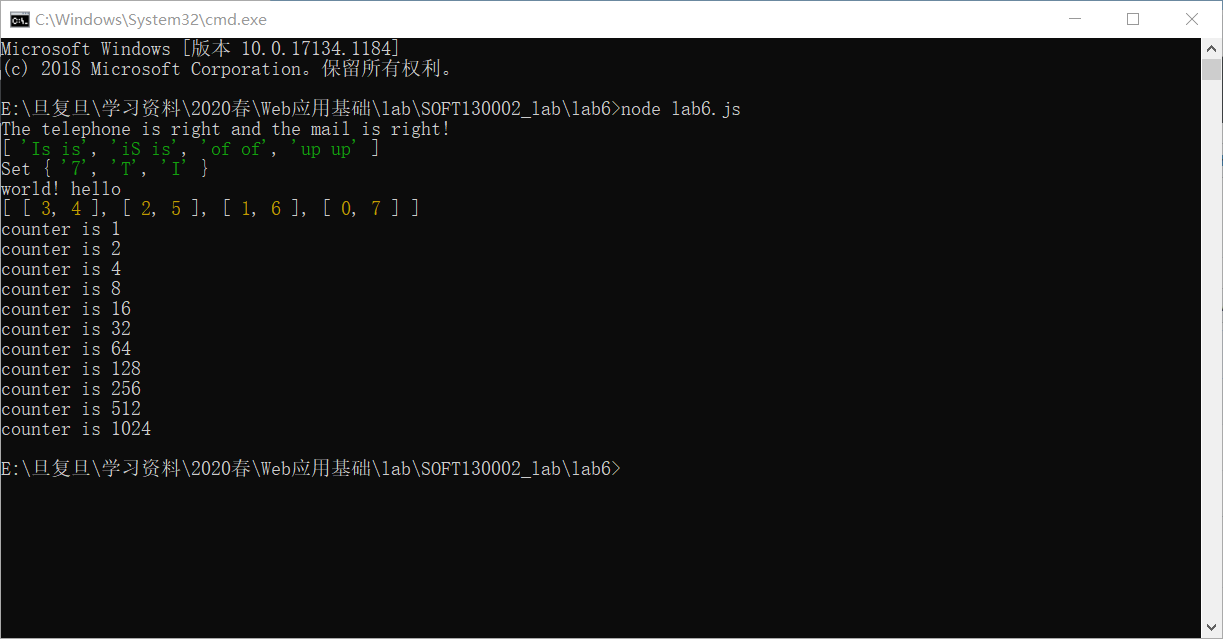
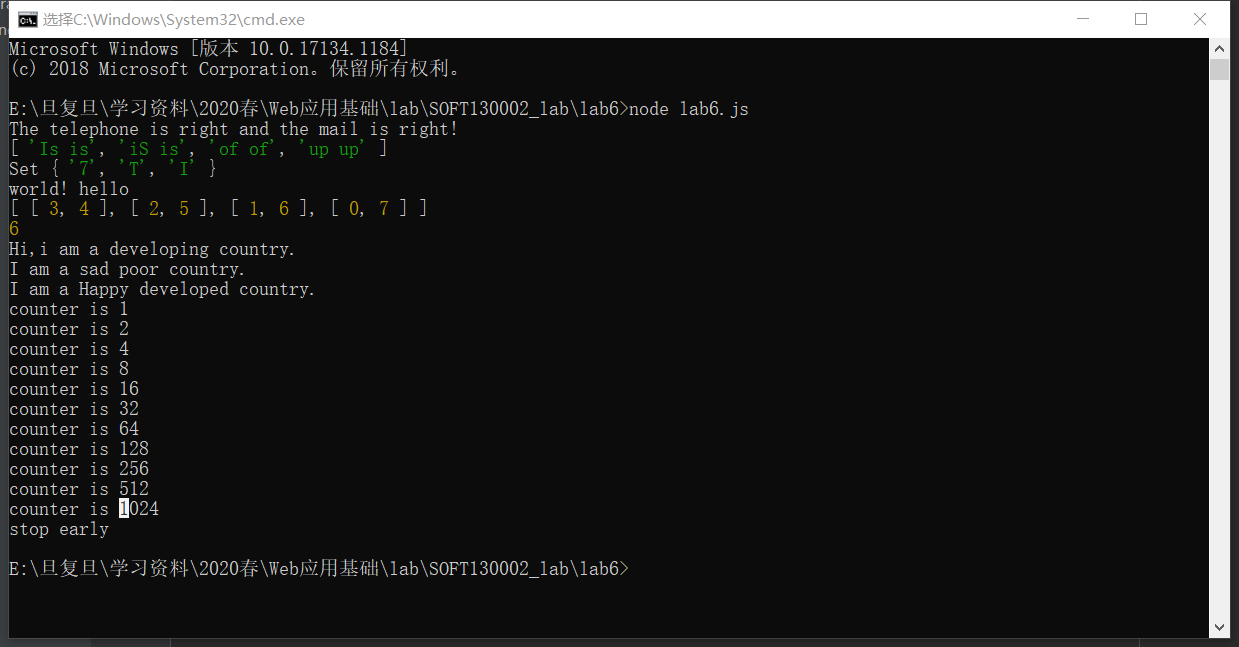
fix Problem 7

Changed region(s): [[0.0, 0.0, 1.0, 1.0], [0.2796, 0.2973, 0.3418, 0.3568], [0.9011, 0.0, 0.9321, 0.0595]]

diff --git a/lab6/lab6.js b/lab6/lab6.js
@@ -160,6 +160,25 @@ function twoSum(nums, target) {
     ⑤str为字符串。
 */
 function lengthOfLongestSubstring(str) {
+    let index = 0;
+    let max = 0;
+    let map = new Map();
+    for(let i = 0;i<str.length;i++){
+        if(map.has(str[i])){
+            let temp = i - index;
+            if(temp > max)
+                max = temp;
+            index = i;
+            map.clear();
+            map.set(str[i],index)
+        }
+        else {
+            map.set(str[i],i);
+        }
+    }
+    let last = str.length - index;
+    if(last > max) max = last;
+    console.log(max);
 }
 
 /*
@@ -182,16 +201,19 @@ function DevelopingCountry() {
     }
 }
 
-function PoorCountry() {
-    PoorCountry.prototype = new Country();
-    PoorCountry.prototype.saySad = function () {
-        console.log("I am a sad poor country.");
-    }
+function PoorCountry() {}
+PoorCountry.prototype = new Country();
+PoorCountry.prototype.saySad = function () {
+    console.log("I am a sad poor country.");
 }
+
 function DevelopedCountry() {
-    return Object.create((new Country()),{sayHappy:function () {
-            console.log("I am a Happy developed country.");
-        }})
+    Country.call(this);
+}
+DevelopedCountry.prototype = Object.create(Country.prototype);
+DevelopedCountry.prototype.constructor = DevelopedCountry;
+DevelopedCountry.prototype.sayHappy = function () {
+    console.log("I am a Happy developed country.");
 }
 
 function test(){
@@ -200,6 +222,13 @@ function test(){
     testKeyBoard("7_This_is_a_test","_hs_s_a_es");
     testSpecialReverse("  hello  world!  ");
     twoSum([1,2,3,4,6,7,8,9],10);
+    lengthOfLongestSubstring("abcddddabcdefghi");
+    let a = new DevelopingCountry();
+    let b = new PoorCountry();
+    let c = new DevelopedCountry();
+    a.sayHi();
+    b.saySad();
+    c.sayHappy();
     testTime();
 }
 test();
